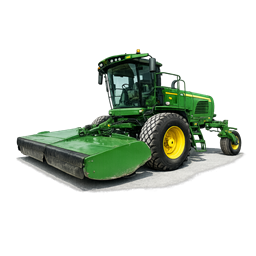
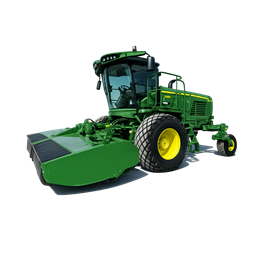
Sprites: Square Baler art, Windrower re-export
New SquareBaler_sideleft (full-res original in art-source, 256px ship copy),
and a re-exported Windrower pair. machineImages tests extended to cover them.

Changed region(s): [[0.0625, 0.1562, 0.9688, 0.7812]]

diff --git a/tests/machineImages.test.ts b/tests/machineImages.test.ts
@@ -28,6 +28,26 @@ describe("size sprites resolve", () => {
     expect(machineImageUrl("harvester", "large")).toBeTruthy();
   });
 
+  it("both baler kinds have their own art, and it isn't the same picture", () => {
+    // `Baler_sideleft.png` aliases onto the internal "bailer" spelling; the
+    // square baler needs no alias. They're size-agnostic (only Medium is sold),
+    // so this also covers the `<Kind>_sideleft.png` no-size form resolving for
+    // every size column.
+    const round = machineImageUrl("bailer", "medium");
+    const square = machineImageUrl("squareBaler", "medium");
+    expect(round).toBeTruthy();
+    expect(square).toBeTruthy();
+    expect(square).not.toBe(round);
+    for (const size of ["small", "medium", "large"] as const) {
+      expect(machineImageUrl("squareBaler", size), size).toBe(square);
+    }
+  });
+
+  it("the windrower resolves without a size token", () => {
+    expect(machineImageUrl("windrower", "large")).toBeTruthy();
+    expect(machineImageUrl("windrower", "medium")).toBe(machineImageUrl("windrower", "large"));
+  });
+
   it("every size sprite is a DISTINCT file — a doubled extension shows up here", () => {
     // If a variant file fell through to the size branch it would land on top of
     // one of these, making two sizes share a URL.
